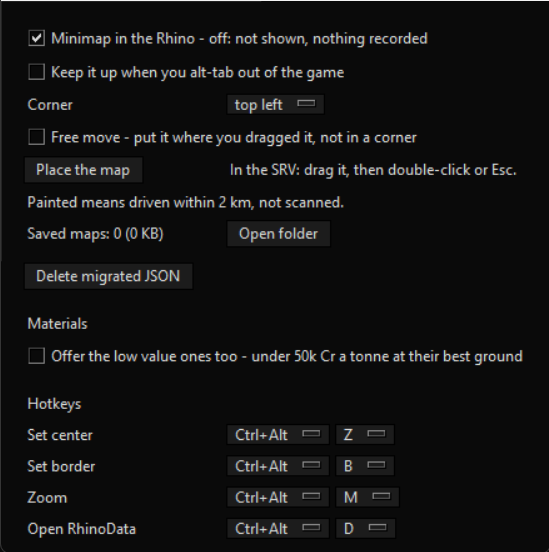
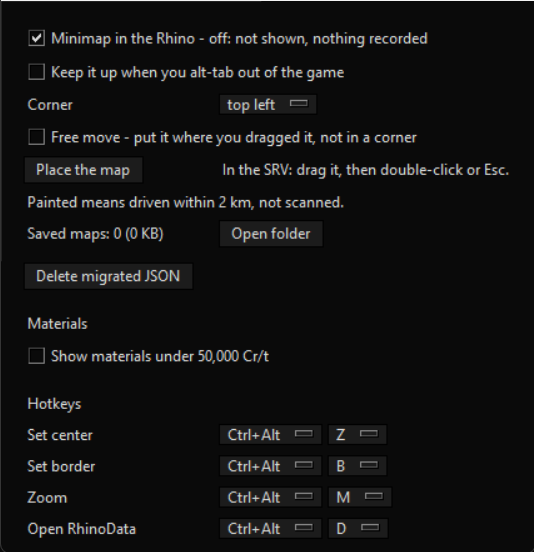
RhinoSpotter 5.2.1: the materials switch says what it does

diff --git a/rs_ui/minimap.py b/rs_ui/minimap.py
@@ -138,9 +138,8 @@ def free_move():
 def low_value_shown():
     """Whether the material lists offer the ones under grounds.HIGH_VALUE_MIN.
 
-    Off by default: a short list of materials worth flying to beats one where
-    copper and water sit between alexandrite and diamond. On, so a deposit that
-    pays badly but is under the ship can still be marked.
+    Off by default. Price is measured on Sheet.values(): the median, best
+    across grounds.
     """
     return config.get_bool(LOW_VALUE_KEY, default=False) if config is not None else False
 
@@ -643,11 +642,11 @@ def prefs(parent):
 
     # What the Material dropdown and the picker in RhinoData offer. Off, the
     # cheap half is left out of both and out of the rates line under a body -
-    # never out of a bookmark that already names one.
+    # never out of a bookmark that already names one, nor out of a material
+    # being mined right now. See rs_ui/main._materials.
     nb.Label(frame, text="Materials").grid(row=8, column=0, sticky="w", padx=10, pady=(6, 2))
-    nb.Checkbutton(frame, text="Offer the low value ones too - under "
-                               f"{grounds.HIGH_VALUE_MIN // 1000}k Cr a tonne at "
-                               "their best ground",
+    nb.Checkbutton(frame, text="Show materials under "
+                               f"{grounds.HIGH_VALUE_MIN:,} Cr/t",
                    variable=_low_value).grid(row=9, column=0, columnspan=2,
                                              sticky="w", padx=10, pady=(2, 10))
 

diff --git a/rs_core/update.py b/rs_core/update.py
@@ -27,7 +27,7 @@ try:
 except ImportError:         # a bare interpreter without it
     requests = None
 
-VERSION = "5.2.0"
+VERSION = "5.2.1"
 
 # For testing the update path without publishing a throwaway release: set
 # RHINOSPOTTER_VERSION to something older and the running plugin will see the

diff --git a/README.md b/README.md
@@ -165,8 +165,8 @@ Solid joins a material to itself, dotted steps down to the next.</em></p>
 EDMC Settings, RhinoSpotter tab:
 
 <p align="center">
-  <img src="docs/settings.png?v=5.2.0" width="480"
-       alt="The RhinoSpotter settings tab: minimap switches, corner, Free move, saved maps, the low value materials switch and the hotkey rows">
+  <img src="docs/settings.png?v=5.2.1" width="480"
+       alt="The RhinoSpotter settings tab: minimap switches, corner, Free move, saved maps, the materials switch and the hotkey rows">
 </p>
 
 - Minimap on/off, whether it stays up when you alt-tab out of the game, and
@@ -178,11 +178,10 @@ EDMC Settings, RhinoSpotter tab:
 - Saved maps count and size, **Open folder** for the map pictures.
 - **Delete migrated JSON** - after upgrading to 4.2, removes the old JSON files
   the database already holds.
-- **Offer the low value ones too** - off, the Material dropdown, the RhinoData
-  picker and the rates line carry only materials worth 50,000 Cr a tonne or
-  more at their best ground. On, all 38. Off is the default; a material you
-  already have a bookmark for, or one you are mining right now, stays pickable
-  either way.
+- **Show materials under 50,000 Cr/t** - off by default. Off, the Material
+  dropdown, the RhinoData picker and the rates line carry 18 materials; on,
+  all 38. Price is the median, best across grounds. Exceptions either way: a
+  material you already have a bookmark for, and one you are mining right now.
 - **Hotkeys** - a modifier set (Ctrl+Alt, Ctrl+Shift, Alt+Shift, Ctrl+Alt+Shift)
   and a key (A-Z, 0-9, F1-F12) for each of the four. The keys named in this
   README are the defaults; the rows under the minimap show the ones in use.

diff --git a/CHANGELOG.md b/CHANGELOG.md
@@ -1,5 +1,11 @@
 # Changelog
 
+## 5.2.1
+
+**Changed**
+
+- The settings switch reads **Show materials under 50,000 Cr/t**. It was "Offer the low value ones too - under 50k Cr a tonne at their best ground", which described the idea rather than the control.
+
 ## 5.2.0
 
 **Added**
